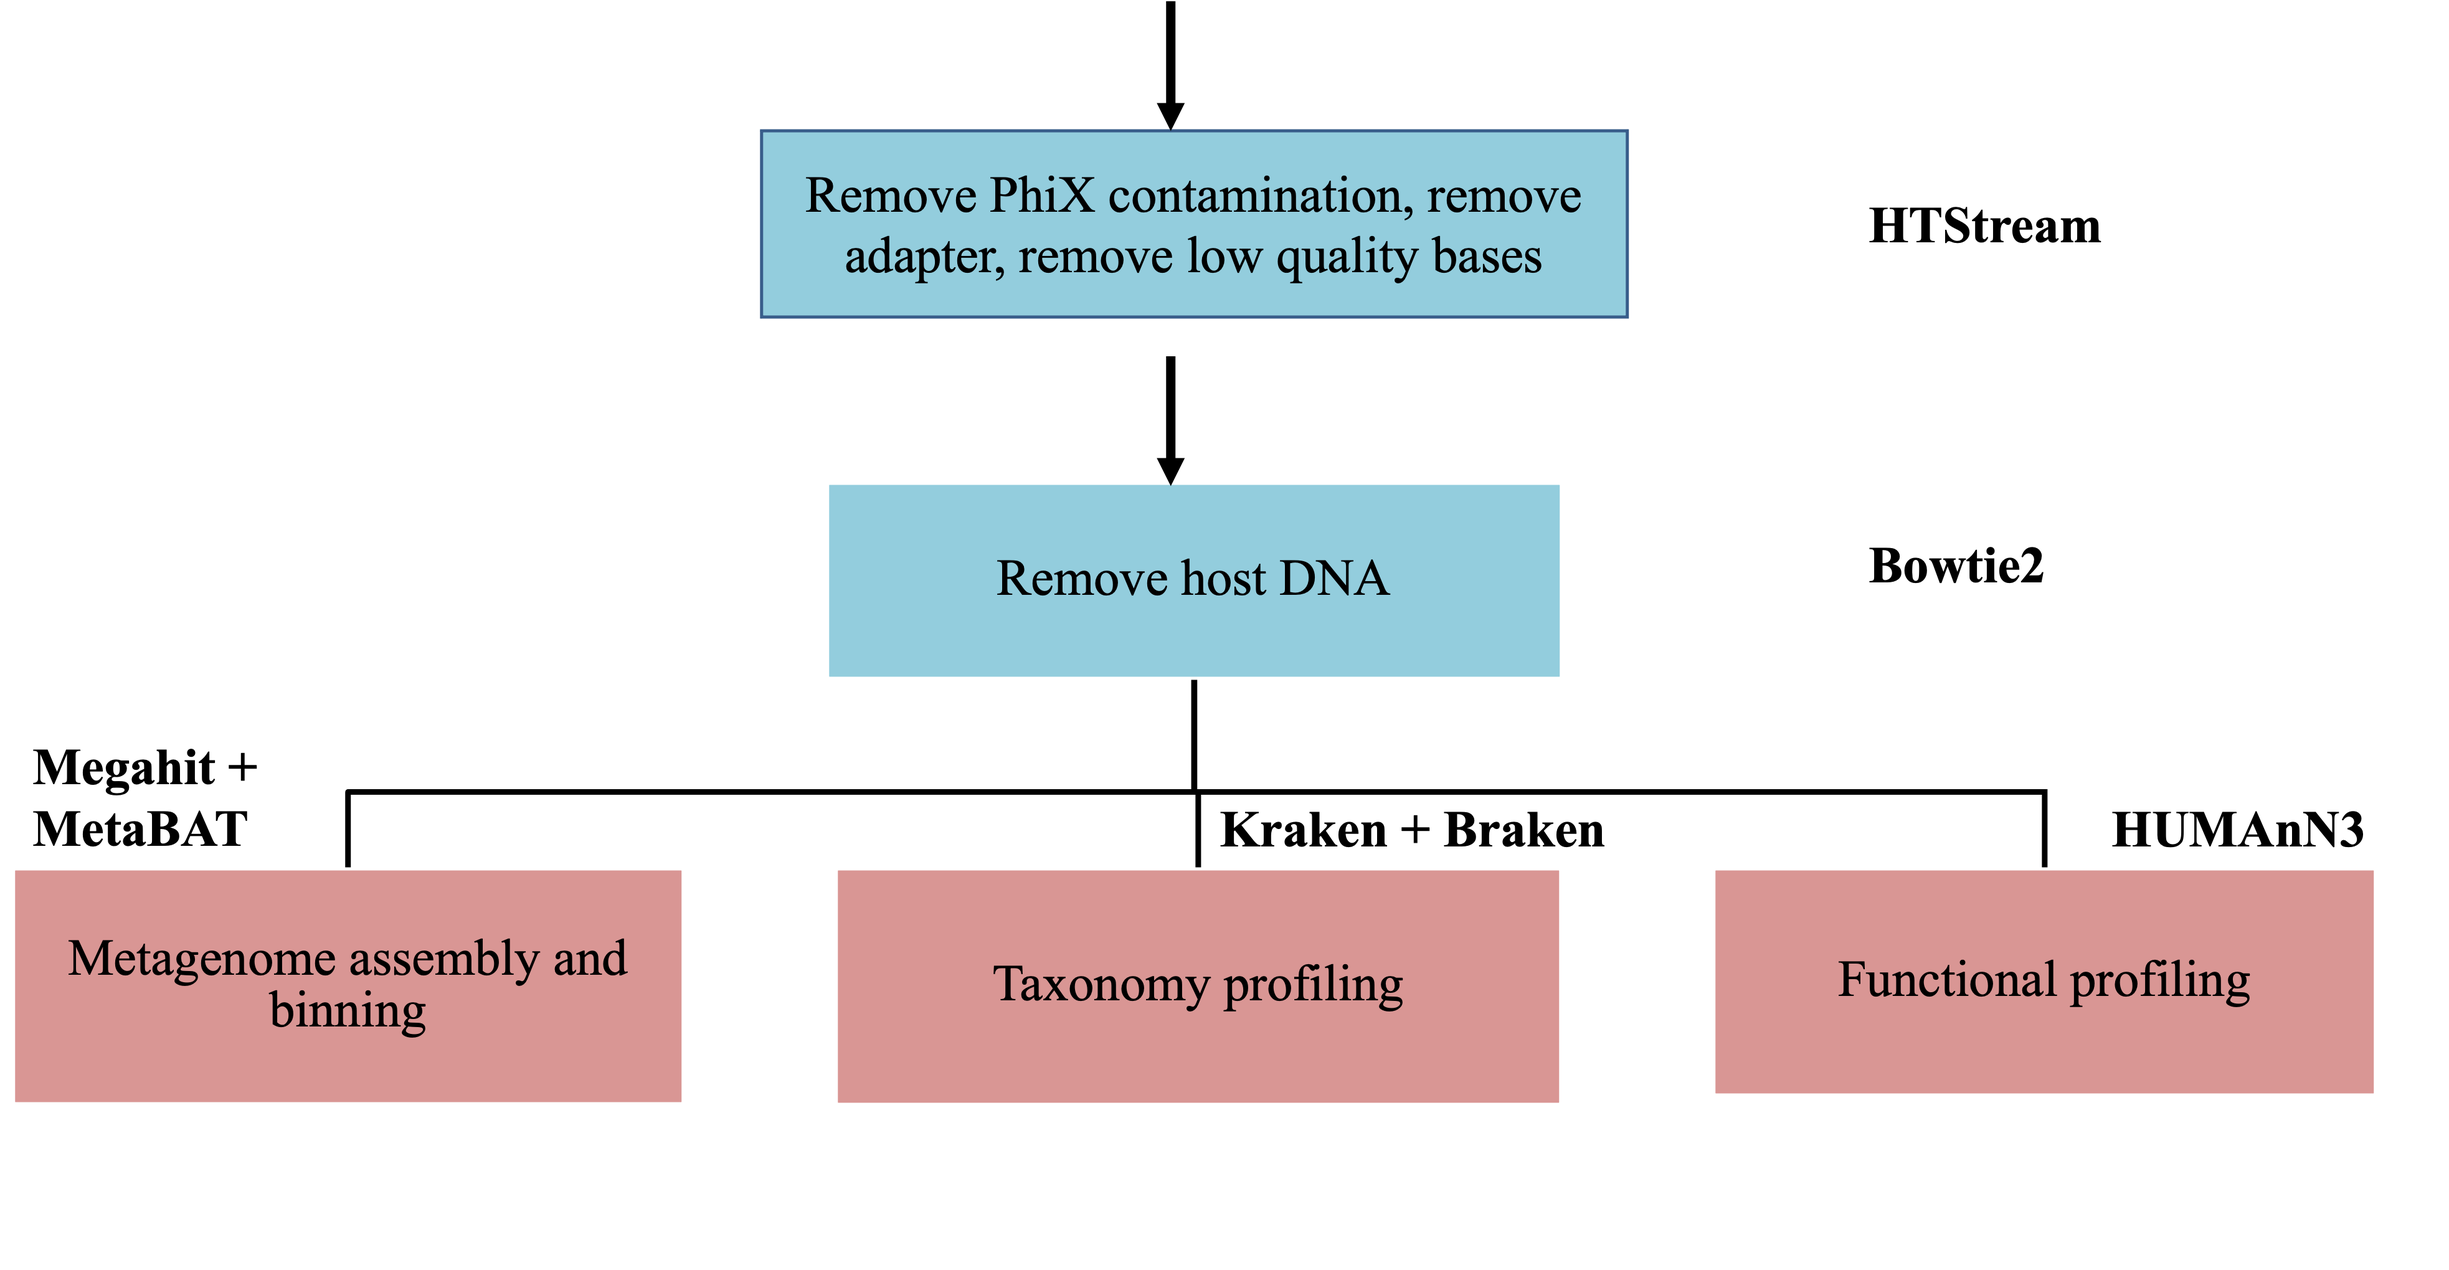
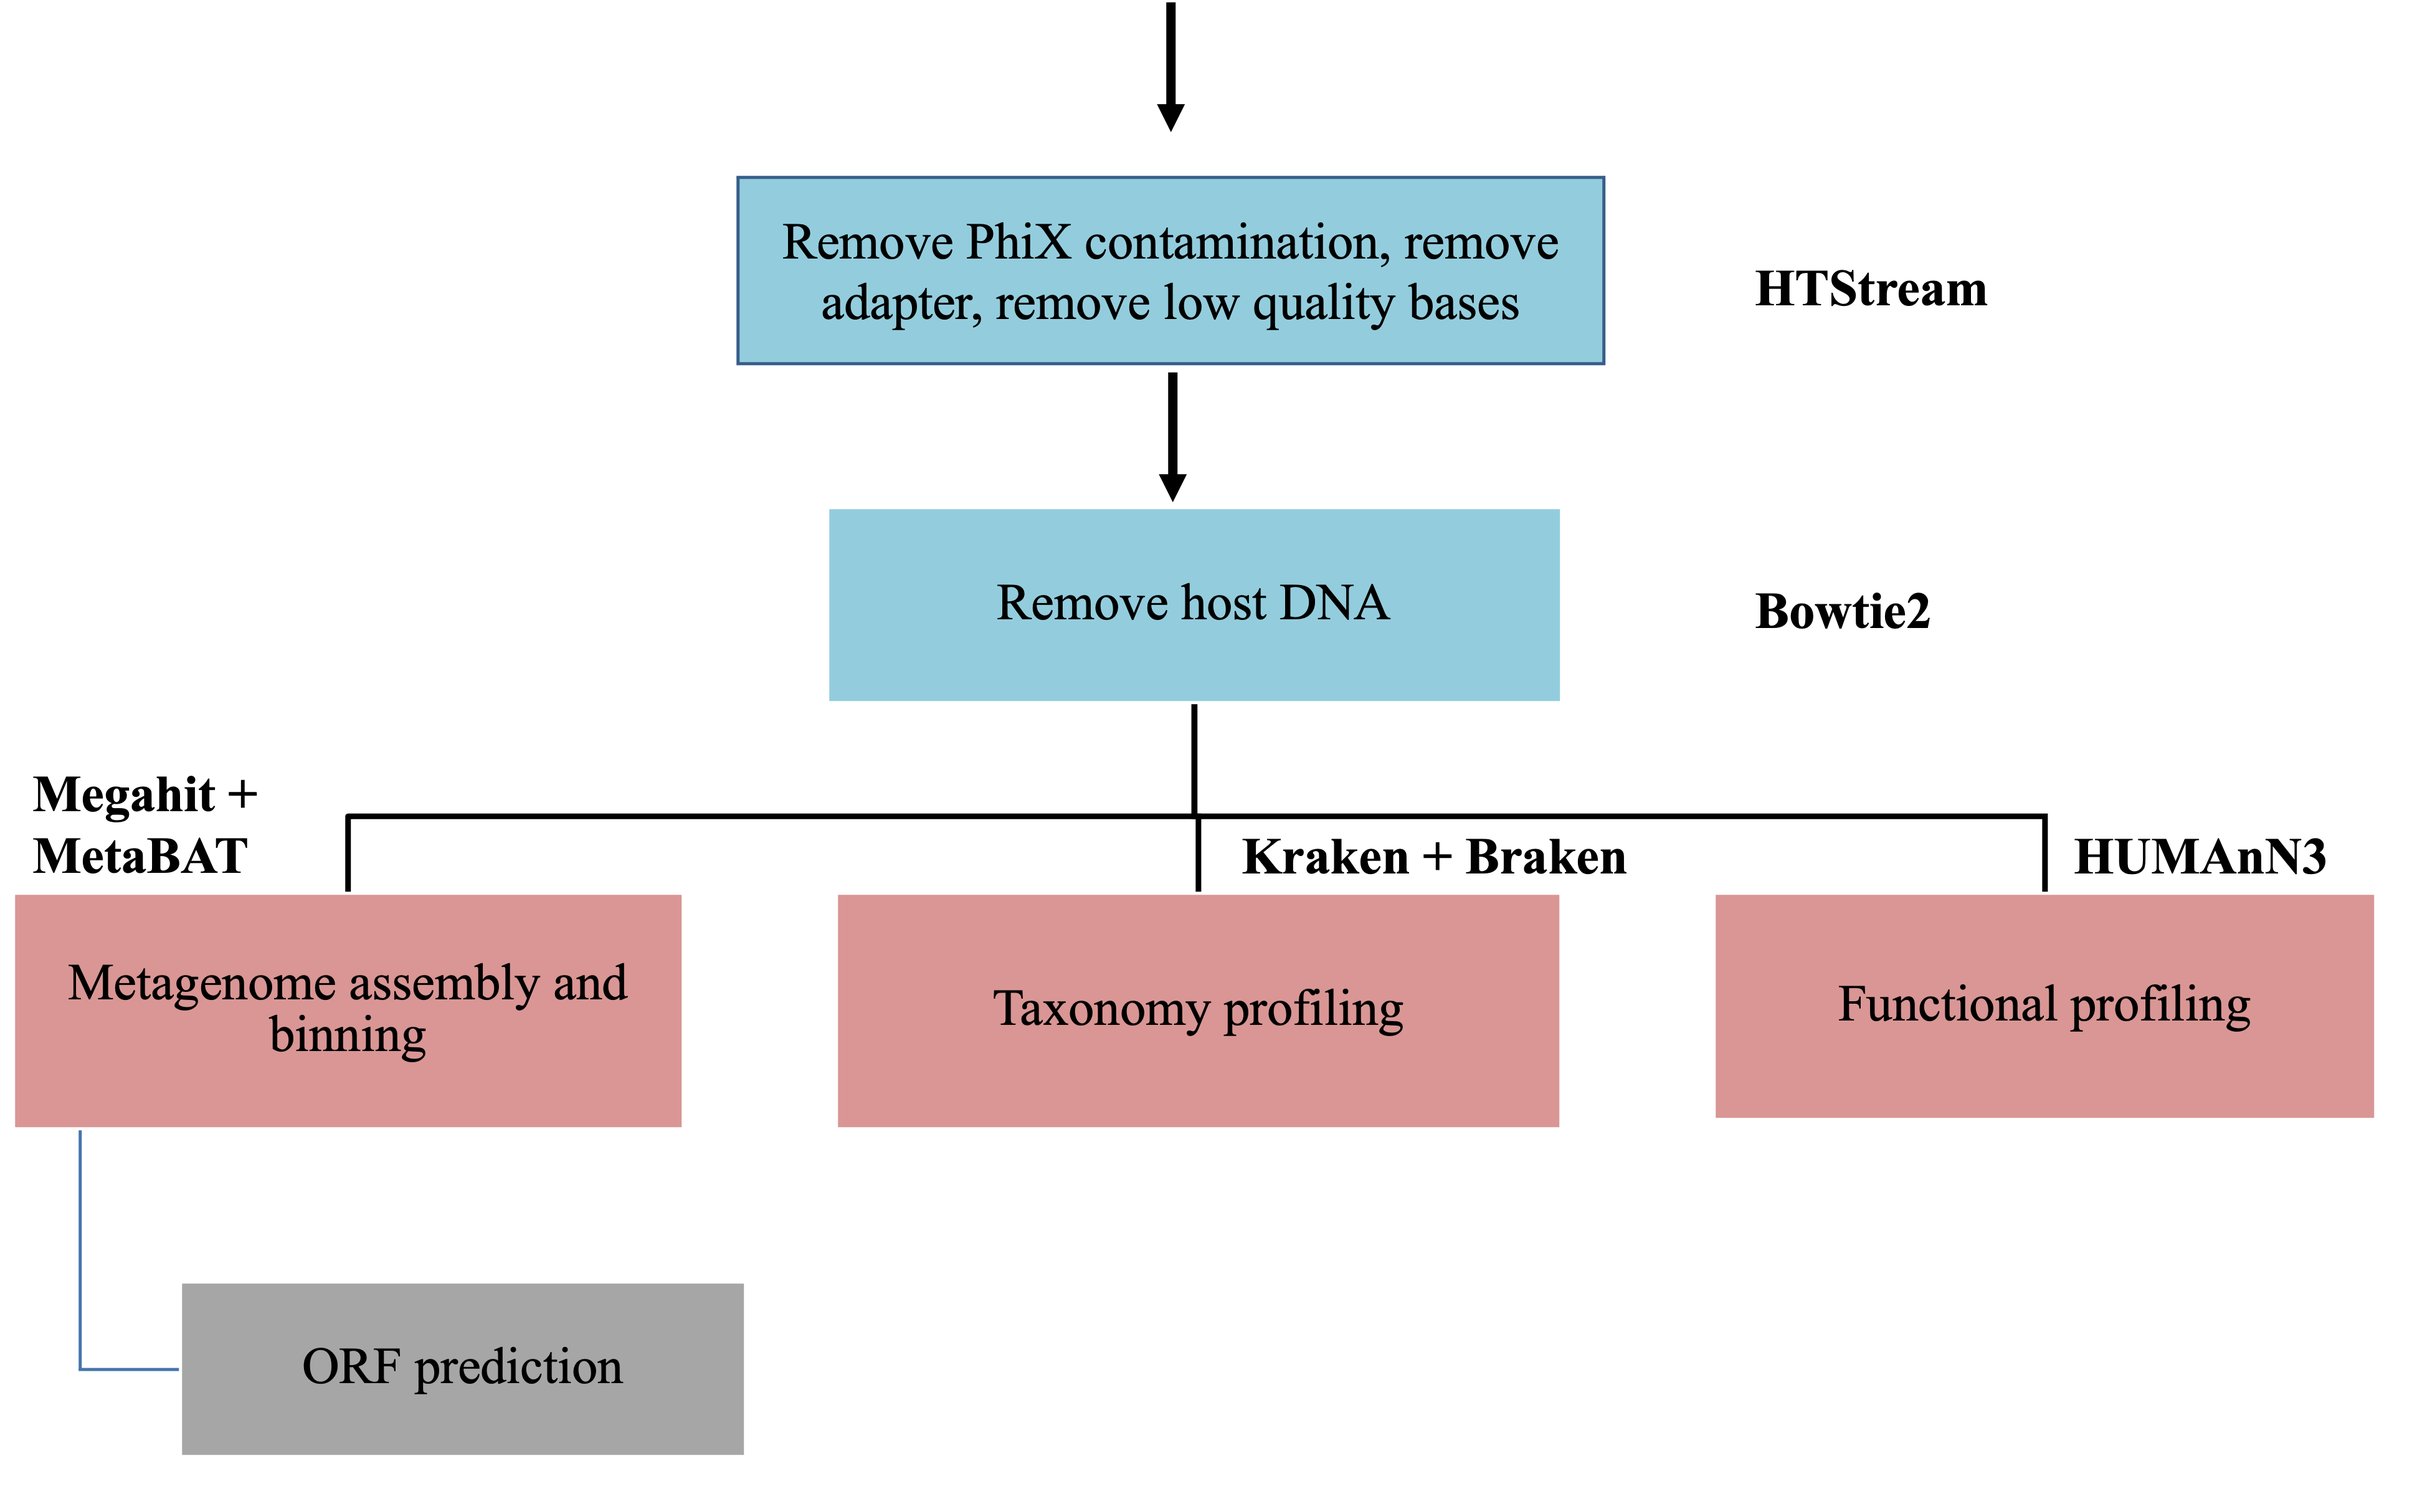
mod pre

Changed region(s): [[0.0, 0.0, 1.0, 0.9887], [0.7188, 0.1545, 0.875, 0.2163], [0.7188, 0.4017, 0.8438, 0.4635]]

diff --git a/data_analysis/overview.md b/data_analysis/overview.md
@@ -76,3 +76,12 @@ The analysis of metatranscriptomics borrow some tools from the analysis of metag
 
 ---
 
+## Data Analysis Workflows
+
+<p align = "center">
+<img src="overview_figures/P6.png" alt="micribial" width="45%"/>
+<img src="overview_figures/P7.png" alt="micribial" width="45%"/>
+</p>
+
+---
+
